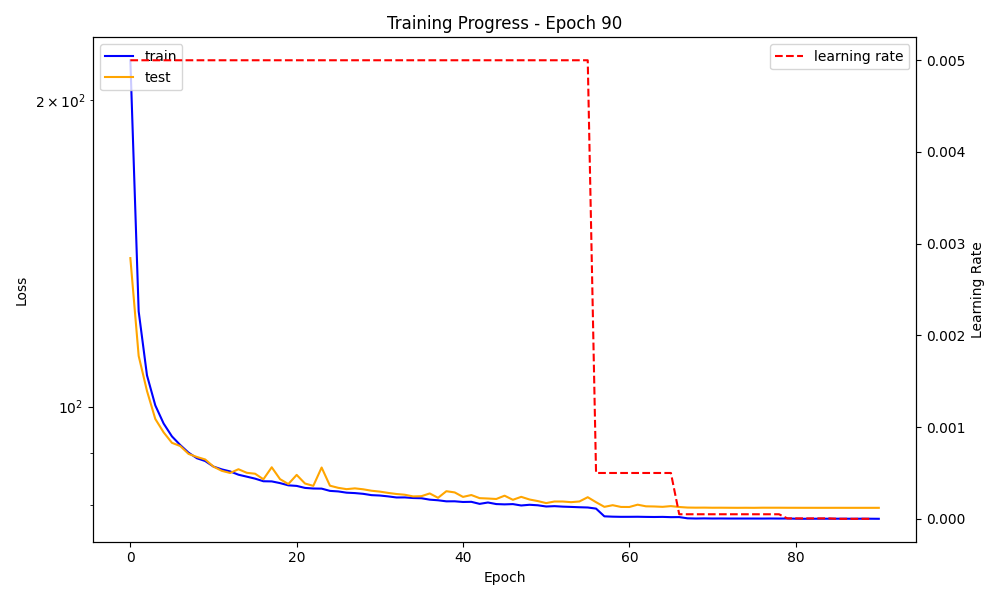
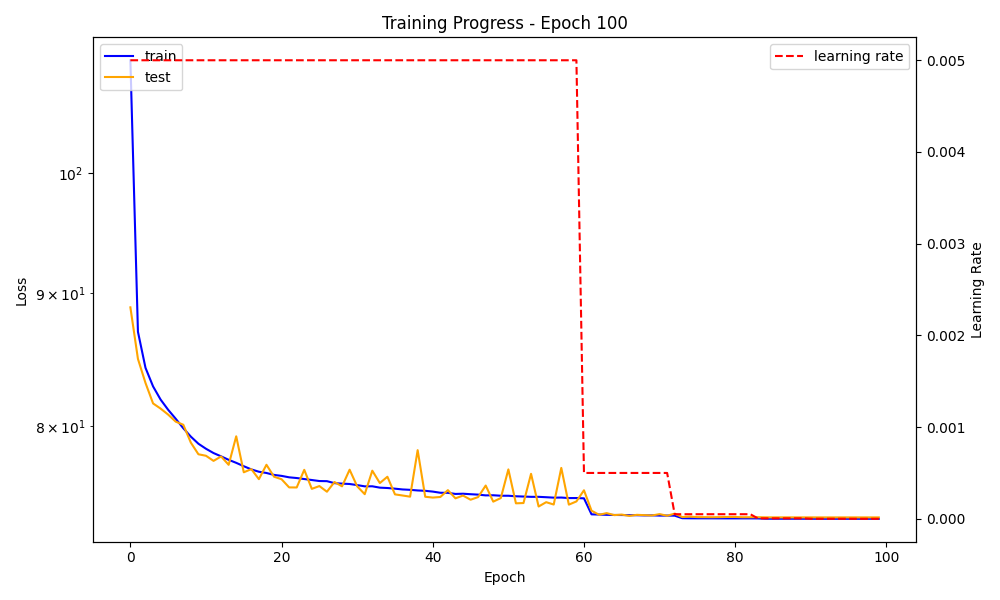
tune data loader

diff --git a/supervised_learning/src/supervised_learning/__init__.py b/supervised_learning/src/supervised_learning/__init__.py
@@ -15,10 +15,10 @@ LOSS_PLOT_PATH = "loss.png"
 DEVICE = torch.device("cuda" if torch.cuda.is_available() else "cpu")
 MODEL_PATH = "model.pth"
 
-MAX_DATA = int(1e6)
+MAX_DATA = int(1e6) * 10
 BATCH_SIZE = 2048
 LR = 5e-3
-WEIGHT_DECAY = 1e-4
+WEIGHT_DECAY = 1e-8
 N_EPOCHS = 100
 HIDDEN_SIZE = 64
 
@@ -67,8 +67,24 @@ def main() -> None:
     data_train, data_test = train_test_split(data, test_size=0.1, shuffle=True)
     train_dataset = ReversiDataset(data_train, net)
     test_dataset = ReversiDataset(data_test, net)
-    train_loader = torch.utils.data.DataLoader(train_dataset, batch_size=BATCH_SIZE, shuffle=True)
-    test_loader = torch.utils.data.DataLoader(test_dataset, batch_size=BATCH_SIZE, shuffle=False)
+    train_loader = torch.utils.data.DataLoader(
+        train_dataset,
+        batch_size=BATCH_SIZE,
+        shuffle=True,
+        num_workers=10,
+        pin_memory=True,
+        prefetch_factor=1000,
+        persistent_workers=True,
+    )
+    test_loader = torch.utils.data.DataLoader(
+        test_dataset,
+        batch_size=BATCH_SIZE,
+        shuffle=False,
+        num_workers=10,
+        pin_memory=True,
+        prefetch_factor=100,
+        persistent_workers=True,
+    )
 
     optimizer = torch.optim.AdamW(net.parameters(), lr=LR, weight_decay=WEIGHT_DECAY)
 
